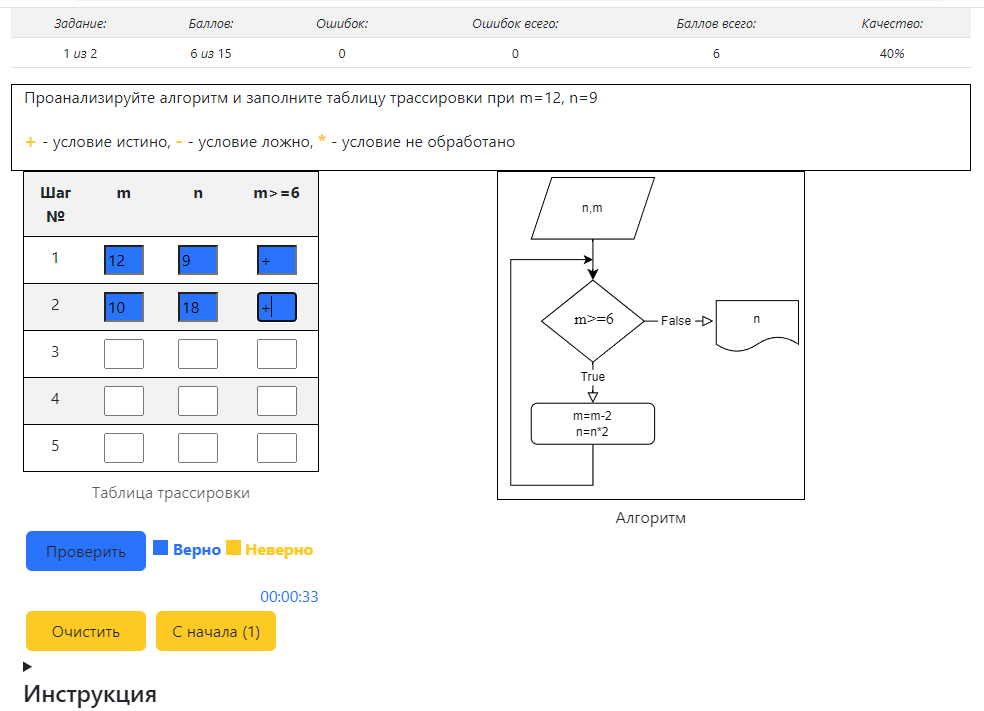
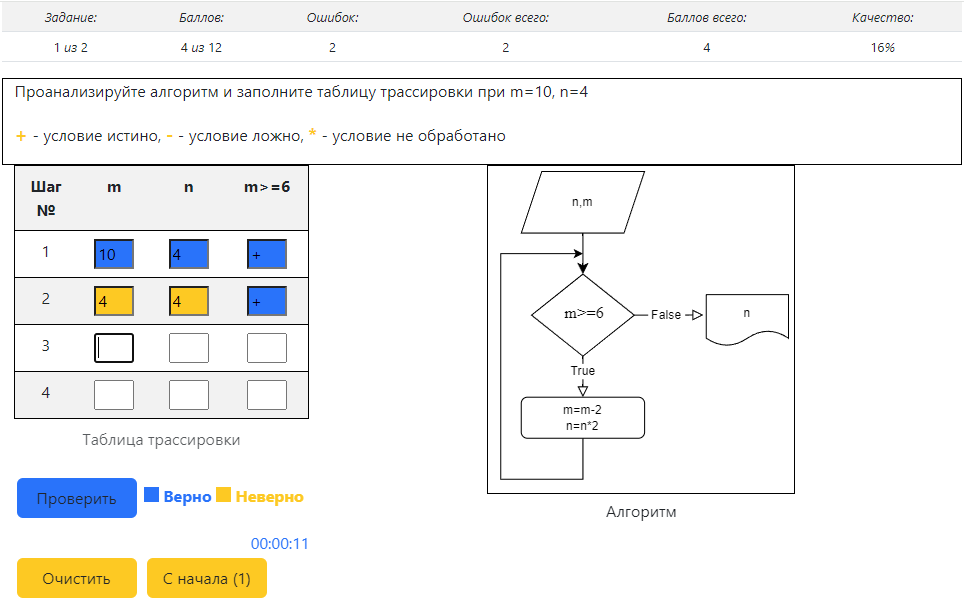
Переработал инструкцию. Добавил выставление оценок

diff --git a/index.html b/index.html
@@ -84,81 +84,13 @@
                         <td colspan="4">Тренировка</td>
                     </tr>
                 </thead>
-                <!--
-                <tr>
-                    <td>3</td>
-                    <td>Первое задание. 5 повторений</td>
-                    <td>5</td>
-                    <td><button class="btn btn-primary" id="task03" onclick="startTask(this)">Пуск</button></td>
-                </tr>
-                <tr>
-                    <td>4</td>
-                    <td>Второе задание. 5 повторений</td>
-                    <td>5</td>
-                    <td><button class="btn btn-primary" id="task04" onclick="startTask(this)">Пуск</button></td>
-                </tr>
-                <tr>
-                    <td>5</td>
-                    <td>Третье задание. 5 повторений</td>
-                    <td>5</td>
-                    <td><button class="btn btn-primary" id="task05" onclick="startTask(this)">Пуск</button></td>
-                </tr>
-                <tr>
-                    <td>6</td>
-                    <td>Четвертое задание. 5 повторений</td>
-                    <td>5</td>
-                    <td><button class="btn btn-primary" id="task06" onclick="startTask(this)">Пуск</button></td>
-                </tr>
-                <tr>
-                    <td>7</td>
-                    <td>Пятое задание. 5 повторений</td>
-                    <td>5</td>
-                    <td><button class="btn btn-primary" id="task07" onclick="startTask(this)">Пуск</button></td>
-                </tr>
-                <tr>
-                    <td>8</td>
-                    <td>Шестое задание. 5 повторений</td>
-                    <td>5</td>
-                    <td><button class="btn btn-primary" id="task08" onclick="startTask(this)">Пуск</button></td>
-                </tr>-->
+
                 <tr>
                     <td></td>
                     <td>Два простых задания (для тренировки)</td>
                     <td>2</td>
                     <td><button class="btn btn-primary" id="task09" onclick="startTask(this)">Начать</button></td>
                 </tr>
-                <!--
-                <tr>
-                    <td>4</td>
-                    <td>Второе задание. 3 повторения</td>
-                    <td>3</td>
-                    <td><button class="btn btn-primary" id="task10" onclick="startTask(this)">Пуск</button></td>
-                </tr>
-                <tr>
-                    <td>5</td>
-                    <td>Третье задание. 3 повторения</td>
-                    <td>3</td>
-                    <td><button class="btn btn-primary" id="task11" onclick="startTask(this)">Пуск</button></td>
-                </tr>
-                <tr>
-                    <td>6</td>
-                    <td>Четвертое задание. 3 повторения</td>
-                    <td>3</td>
-                    <td><button class="btn btn-primary" id="task12" onclick="startTask(this)">Пуск</button></td>
-                </tr>
-                <tr>
-                    <td>7</td>
-                    <td>Пятое задание. 3 повторения</td>
-                    <td>3</td>
-                    <td><button class="btn btn-primary" id="task13" onclick="startTask(this)">Пуск</button></td>
-                </tr>
-                <tr>
-                    <td>8</td>
-                    <td>Шестое задание. 3 повторения</td>
-                    <td>3</td>
-                    <td><button class="btn btn-primary" id="task14" onclick="startTask(this)">Пуск</button></td>
-                </tr>-->
-
             </table>
 
         </div>
@@ -184,7 +116,7 @@
                         </td>
                         <td><span id="scoresTotal">0</span>
                         </td>
-                        <td><span id="percent">0</span><span class="infoLabel">%</span></td>
+                        <td><span id="percent">0</span><span class="infoLabel">%</span>(<span id="grade">2</span>)</td>
 
                     </tr>
                 </table>
@@ -276,9 +208,16 @@
                         Вы можете выполнить каждое задание дважды. Для этого нажмите кнопку "С начала(1)". В этом случае
                         счетчик ошибок для текущей задачи обнуляется.
                         Воспользуйтесь вкладкой "Подсказка" в которой есть объяснение условий и критерий
-                        выставления оценки. <br> Перед выполнением основного задания рекомендуется выбрать "два простых задания" для тренировки.<br>
-                        <span style='color:red'>Не обновляйте страницу и не нажимайте кнопку назад, так как результаты сбросятся.</span><br>
-                        В конце обязательно нажмите кнопку "Сохранить", чтобы сохранить результаты
+                        выставления оценки. <br> Перед выполнением основного задания рекомендуется выбрать "два простых
+                        задания" для тренировки.<br>
+                        <strong>Условия</strong><br>
+                        < - меньше,> - больше,<br>
+                            <= - меньше или равно,<br>
+                                >=- больше или равно,<br>
+                                != - не равно<br>
+                                <span style='color:red'>Не обновляйте страницу и не нажимайте кнопку назад, так как
+                                    результаты сбросятся.</span><br>
+                                В конце обязательно нажмите кнопку "Сохранить", чтобы сохранить результаты
                     </div>
                     <figure>
                         <img class="figure-img img-fluid rounded" src="instruction.png" />

diff --git a/script.js b/script.js
@@ -87,14 +87,20 @@ function getDurationTime() {
 
 }
 
-function finish() {
-    clearInterval(si);
-    checkTimeFinish();
+function getGrade()
+{
     percents = calculatePercent();
     if (percents >= 90) ball = 5;
     if (percents >= 75 && percents < 90) ball = 4;
     if (percents >= 50 && percents < 75) ball = 3;
     if (percents < 50) ball = 2;
+    document.getElementById('grade').innerHTML=ball;
+}
+
+function finish() {
+    clearInterval(si);
+    checkTimeFinish();
+    getGrade();
     showResult(percents).then((result) => {
         if (result.isConfirmed) {
             inputText("Сохранение", `Введите свое <strong>фамилию</strong> и <strong>имя</strong>:`, "Иванов Иван").then((name) => {
@@ -122,6 +128,7 @@ function next() {
         //currentTask = taskQuery[taskNumber];
         countAttempt = maxAttempts;
         renewTask();
+        getGrade();
     }
     else {
         finish();
@@ -449,7 +456,7 @@ async function startTask(element) {
             console.log(taskQuery);
             break;
         case 'task16':
-            let result = await inputText('Ввод заданий', 'Введите задания с номерами от 0 до 5 через запятую<br>Например:0,0,1,2,3,5', '0,1,2,3,4,5');
+            let result = await inputText('Ввод заданий', `Введите задания с номерами от 0 до ${tasks.length-1} через запятую<br>Например:0,0,1,2,3,5`, '0,1,2,3,4,5');
             if (result.isConfirmed) {
                 //console.log(result)
                 taskQuery = result.value.split(',').map(str => parseInt(str))
@@ -546,6 +553,7 @@ function createTable() {
             cell.addEventListener('keydown', (event) => {
                 if (event.key == 'Enter') {
                     check();
+                    getGrade();
                     // Находим текущий активный элемент
                     const activeElement = document.activeElement;
 
